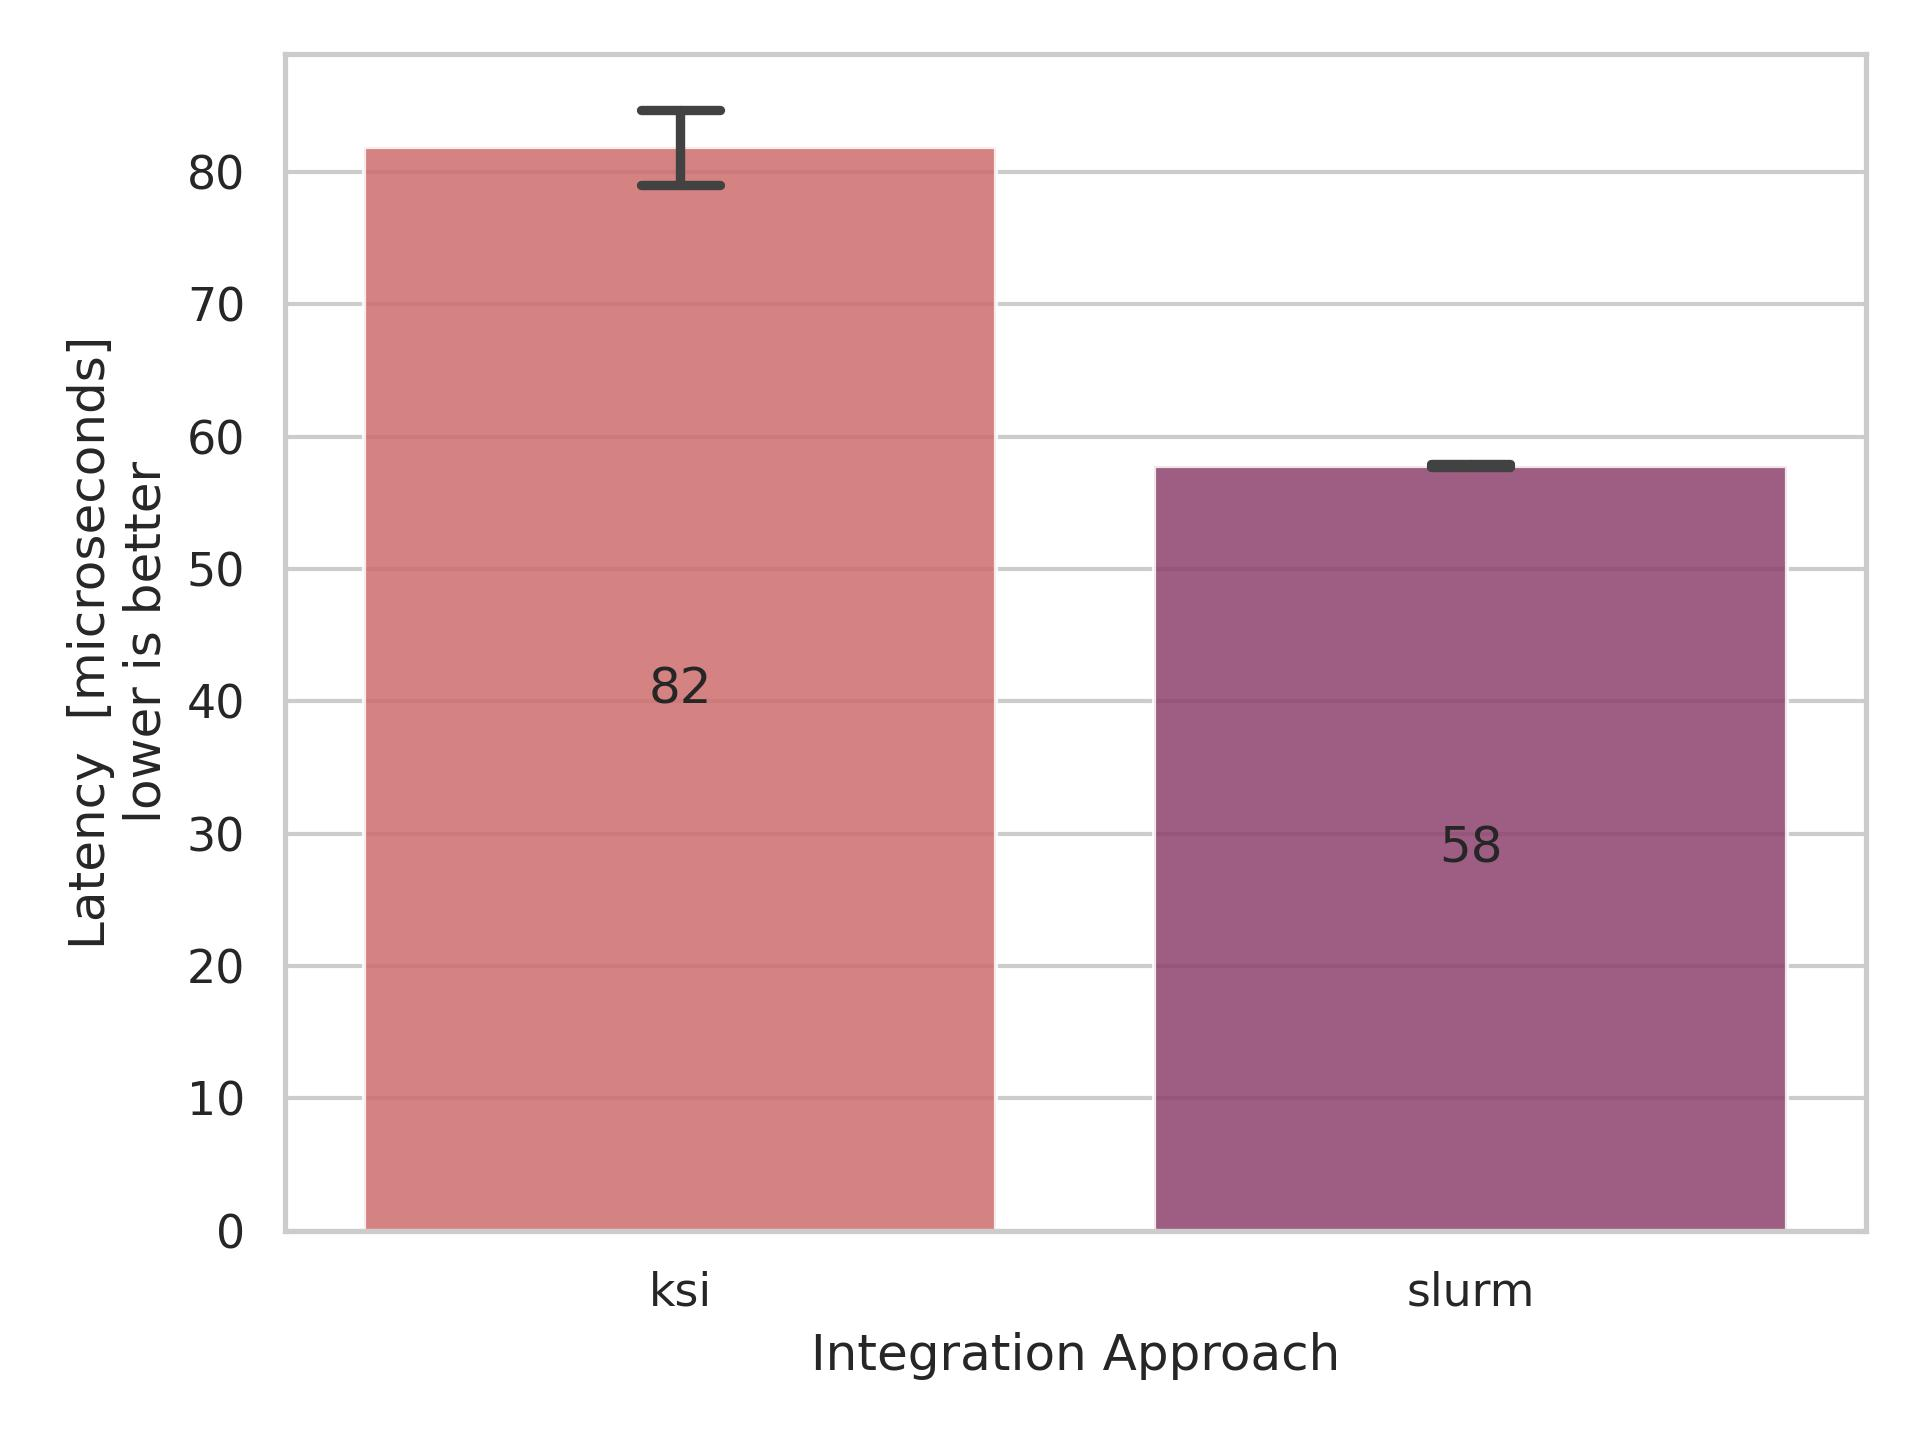
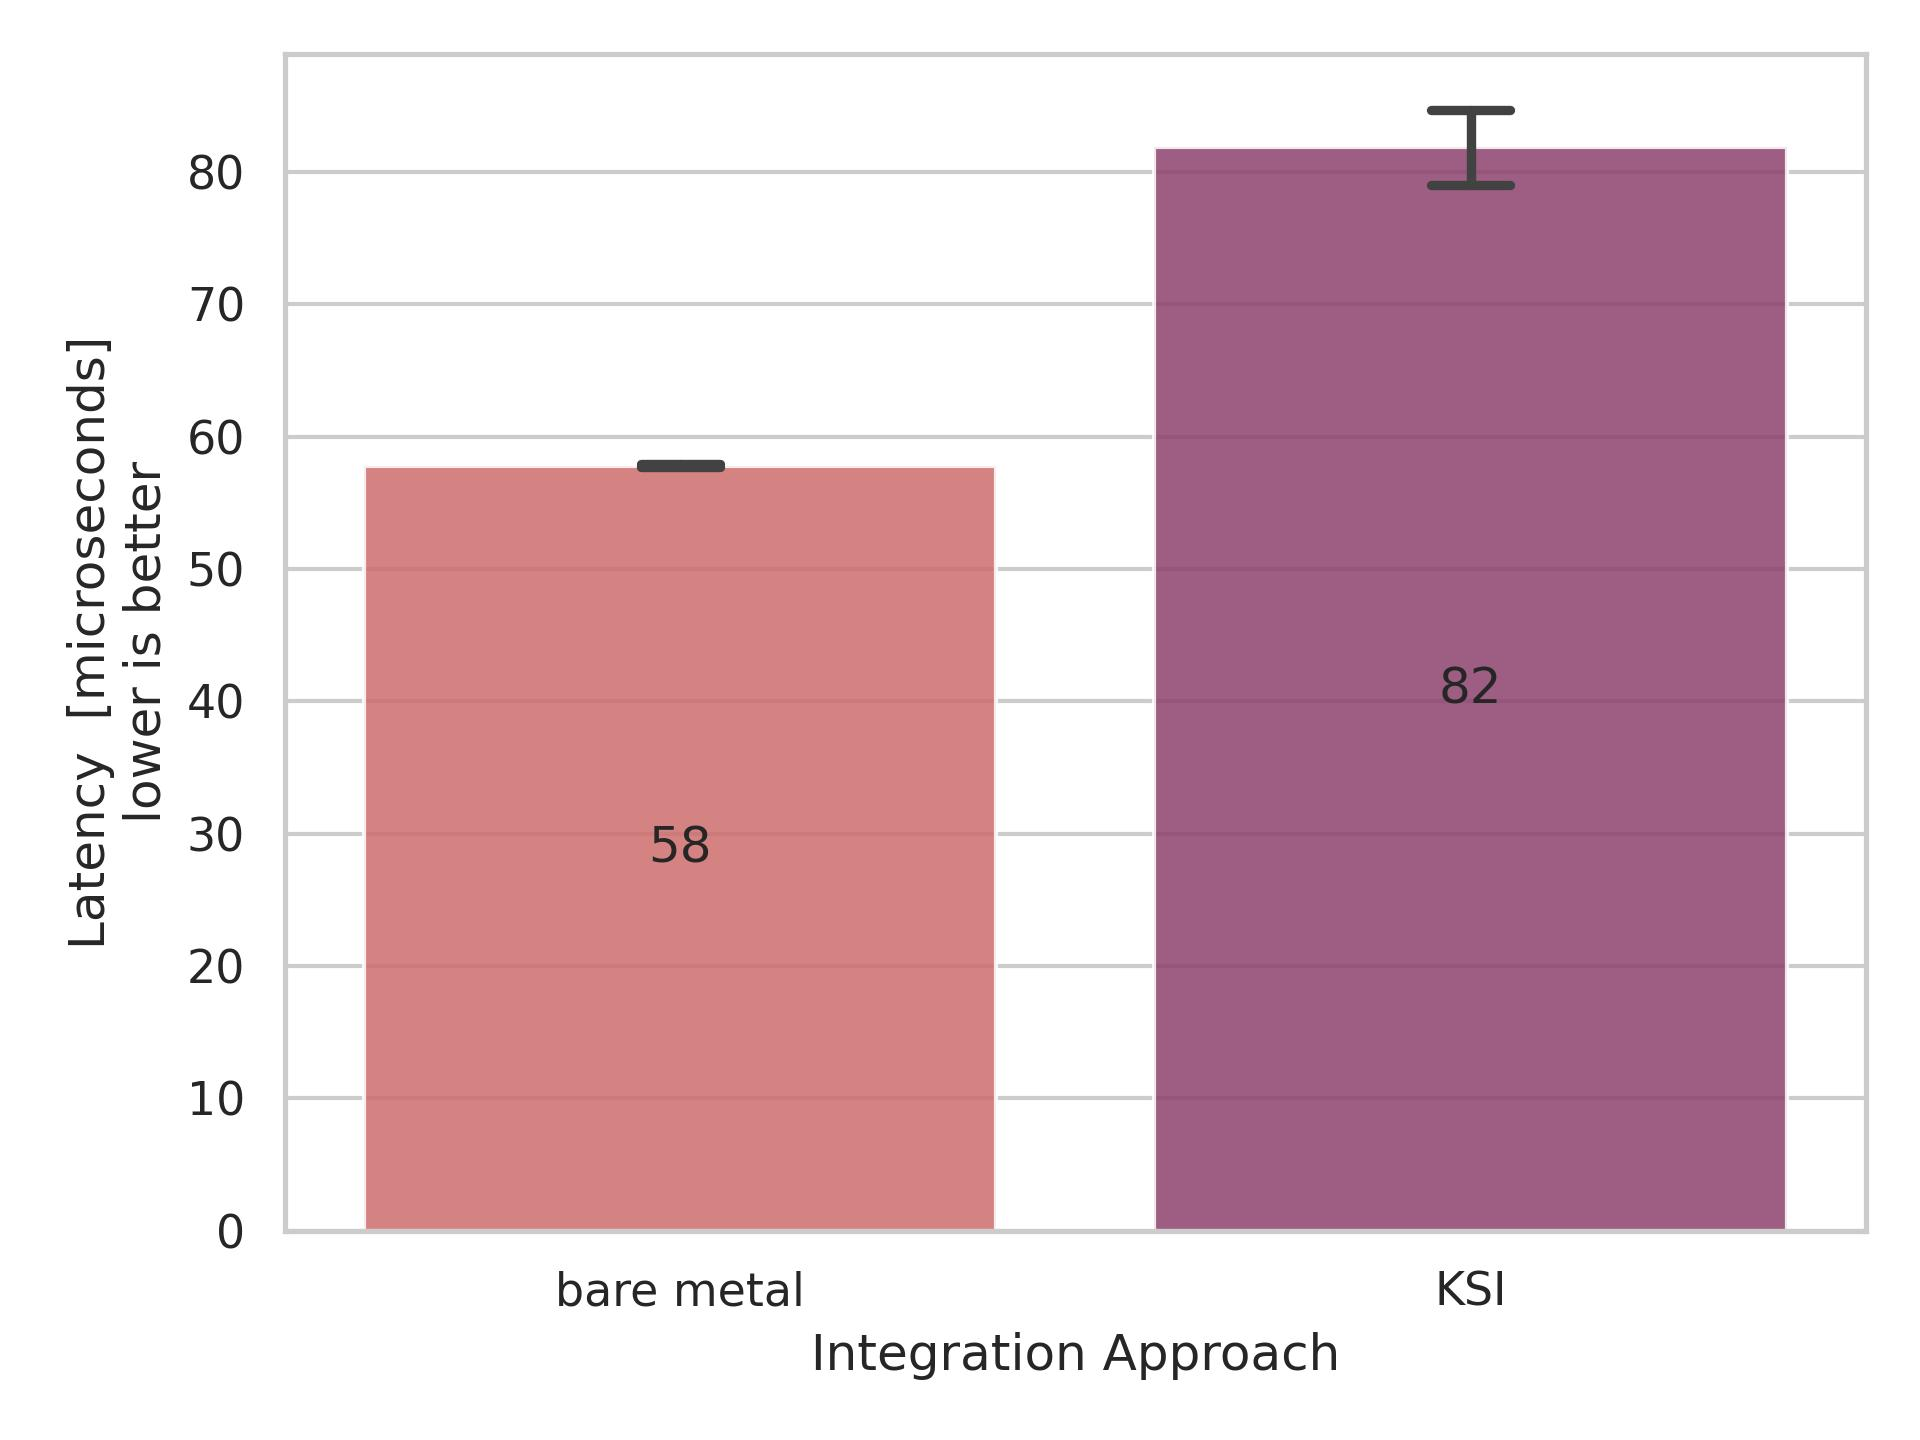
Update plot python scripts: rename integration approaches & reorder integration approaches

diff --git a/src/plot/plot-stream-memory.py b/src/plot/plot-stream-memory.py
@@ -4,6 +4,8 @@ import pandas as pd
 import seaborn as sns
 import matplotlib.pyplot as plt
 
+from src.plot import common
+
 benchmark = "stream-memory"
 
 # If script is executed from plot directory, change to content root directory
@@ -14,15 +16,18 @@ if os.path.split(os.getcwd())[-1] == "plot":
 plot_path = f"plots/plot-{benchmark}.jpg"
 
 data_dir = f"data/{benchmark}"
-project_dirs = [os.path.join(data_dir, p) for p in ["bridge-operator", "hpk", "ksi", "slurm"]]
+project_dirs = [os.path.join(data_dir, p) for p in ["slurm", "bridge-operator", "hpk", "ksi"]]
 
 # Find file with the highest number
 benchmark_files = [os.path.join(d, max(os.listdir(d))) for d in project_dirs if os.path.exists(d)]
 print(benchmark_files)
 
 df = pd.concat([pd.read_csv(p, sep=";") for p in benchmark_files])
+df["project"] = common.map_approach_name(df["project"])
+
 # We define the memory score as the average of all four metrics
 df['score'] = df[['copy', 'scale', 'add', 'triad']].mean(axis=1)
+
 print(df)
 
 # Plot data

diff --git a/src/plot/plot-iperf3-bandwidth.py b/src/plot/plot-iperf3-bandwidth.py
@@ -4,6 +4,8 @@ import pandas as pd
 import seaborn as sns
 import matplotlib.pyplot as plt
 
+from src.plot import common
+
 benchmark = "iperf3-bandwidth"
 
 # If script is executed from plot directory, change to content root directory
@@ -14,13 +16,14 @@ if os.path.split(os.getcwd())[-1] == "plot":
 plot_path = f"plots/plot-{benchmark}.jpg"
 
 data_dir = f"data/{benchmark}"
-project_dirs = [os.path.join(data_dir, p) for p in ["bridge-operator", "hpk", "ksi", "slurm"]]
+project_dirs = [os.path.join(data_dir, p) for p in ["slurm", "bridge-operator", "hpk", "ksi"]]
 
 # Find file with the highest number
 benchmark_files = [os.path.join(d, max(os.listdir(d))) for d in project_dirs if os.path.exists(d)]
 print(benchmark_files)
 
 df = pd.concat([pd.read_csv(p, sep=";") for p in benchmark_files])
+df["project"] = common.map_approach_name(df["project"])
 df['score'] = df['scoreBitsPerSec'] / 1000000  # to MBit/s
 print(df)
 

diff --git a/src/plot/plot-netperf-latency.py b/src/plot/plot-netperf-latency.py
@@ -4,6 +4,8 @@ import pandas as pd
 import seaborn as sns
 import matplotlib.pyplot as plt
 
+from src.plot import common
+
 benchmark = "netperf-latency-tcp"
 
 # If script is executed from plot directory, change to content root directory
@@ -14,13 +16,15 @@ if os.path.split(os.getcwd())[-1] == "plot":
 plot_path = f"plots/plot-{benchmark}.jpg"
 
 data_dir = f"data/{benchmark}"
-project_dirs = [os.path.join(data_dir, p) for p in ["bridge-operator", "hpk", "ksi", "slurm"]]
+project_dirs = [os.path.join(data_dir, p) for p in ["slurm", "bridge-operator", "hpk", "ksi"]]
 
 # Find file with the highest number
 benchmark_files = [os.path.join(d, max(os.listdir(d))) for d in project_dirs if os.path.exists(d)]
 print(benchmark_files)
 
 df = pd.concat([pd.read_csv(p, sep=";") for p in benchmark_files])
+df["project"] = common.map_approach_name(df["project"])
+
 print(df)
 
 # Plot data

diff --git a/src/plot/plot-sysbench-diskrnd.py b/src/plot/plot-sysbench-diskrnd.py
@@ -4,6 +4,8 @@ import pandas as pd
 import seaborn as sns
 import matplotlib.pyplot as plt
 
+from src.plot import common
+
 benchmark = "sysbench-diskrnd"
 
 # If script is executed from plot directory, change to content root directory
@@ -14,13 +16,14 @@ if os.path.split(os.getcwd())[-1] == "plot":
 plot_path = f"plots/plot-{benchmark}.jpg"
 
 data_dir = f"data/{benchmark}"
-project_dirs = [os.path.join(data_dir, p) for p in ["bridge-operator", "hpk", "ksi", "slurm"]]
+project_dirs = [os.path.join(data_dir, p) for p in ["slurm", "bridge-operator", "hpk", "ksi"]]
 
 # Find file with the highest number
 benchmark_files = [os.path.join(d, max(os.listdir(d))) for d in project_dirs if os.path.exists(d)]
 print(benchmark_files)
 
 df = pd.concat([pd.read_csv(p, sep=";") for p in benchmark_files])
+df["project"] = common.map_approach_name(df["project"])
 print(df)
 
 # Plot data

diff --git a/src/plot/plot-sysbench-diskseq.py b/src/plot/plot-sysbench-diskseq.py
@@ -4,6 +4,8 @@ import pandas as pd
 import seaborn as sns
 import matplotlib.pyplot as plt
 
+from src.plot import common
+
 benchmark = "sysbench-diskseq"
 
 # If script is executed from plot directory, change to content root directory
@@ -14,13 +16,14 @@ if os.path.split(os.getcwd())[-1] == "plot":
 plot_path = f"plots/plot-{benchmark}.jpg"
 
 data_dir = f"data/{benchmark}"
-project_dirs = [os.path.join(data_dir, p) for p in ["bridge-operator", "hpk", "ksi", "slurm"]]
+project_dirs = [os.path.join(data_dir, p) for p in ["slurm", "bridge-operator", "hpk", "ksi"]]
 
 # Find file with the highest number
 benchmark_files = [os.path.join(d, max(os.listdir(d))) for d in project_dirs if os.path.exists(d)]
 print(benchmark_files)
 
 df = pd.concat([pd.read_csv(p, sep=";") for p in benchmark_files])
+df["project"] = common.map_approach_name(df["project"])
 print(df)
 
 # Plot data

diff --git a/src/plot/plot-sysbench-cpu.py b/src/plot/plot-sysbench-cpu.py
@@ -4,6 +4,8 @@ import pandas as pd
 import seaborn as sns
 import matplotlib.pyplot as plt
 
+from src.plot import common
+
 benchmark = "sysbench-cpu"
 
 # If script is executed from plot directory, change to content root directory
@@ -14,13 +16,15 @@ if os.path.split(os.getcwd())[-1] == "plot":
 plot_path = f"plots/plot-{benchmark}.jpg"
 
 data_dir = f"data/{benchmark}"
-project_dirs = [os.path.join(data_dir, p) for p in ["bridge-operator", "hpk", "ksi", "slurm"]]
+project_dirs = [os.path.join(data_dir, p) for p in ["slurm", "bridge-operator", "hpk", "ksi"]]
 
 # Find file with the highest number
 benchmark_files = [os.path.join(d, max(os.listdir(d))) for d in project_dirs if os.path.exists(d)]
 print(benchmark_files)
 
 df = pd.concat([pd.read_csv(p, sep=";") for p in benchmark_files])
+df["project"] = common.map_approach_name(df["project"])
+
 print(df)
 
 # Plot data

diff --git a/src/plot/plot-startup-time.py b/src/plot/plot-startup-time.py
@@ -4,6 +4,8 @@ import pandas as pd
 import seaborn as sns
 import matplotlib.pyplot as plt
 
+from src.plot import common
+
 benchmark = "startup-time"
 
 # If script is executed from plot directory, change to content root directory
@@ -14,13 +16,14 @@ if os.path.split(os.getcwd())[-1] == "plot":
 plot_path = f"plots/plot-{benchmark}.jpg"
 
 data_dir = f"data/{benchmark}"
-project_dirs = [os.path.join(data_dir, p) for p in ["bridge-operator", "hpk", "ksi", "slurm"]]
+project_dirs = [os.path.join(data_dir, p) for p in ["slurm", "bridge-operator", "hpk", "ksi"]]
 
 # Find file with the highest number
 benchmark_files = [os.path.join(d, max(os.listdir(d))) for d in project_dirs if os.path.exists(d)]
 print(benchmark_files)
 
 df = pd.concat([pd.read_csv(p, sep=";") for p in benchmark_files])
+df["project"] = common.map_approach_name(df["project"])
 print(df)
 
 # Plot data

diff --git a/src/plot/common.py b/src/plot/common.py
@@ -1,0 +1,14 @@
+# Shared functionality that is used in multiple python scripts.
+
+_mapNames = {
+    "slurm": "bare metal",
+    "ksi": "KSI",
+    "hpk": "HPK",
+    "bridge-operator": "Bridge-Operator"
+}
+
+
+def map_approach_name(project):
+    if hasattr(project, "__iter__"):
+        return [_mapNames[a] for a in project]
+    return _mapNames[project]
